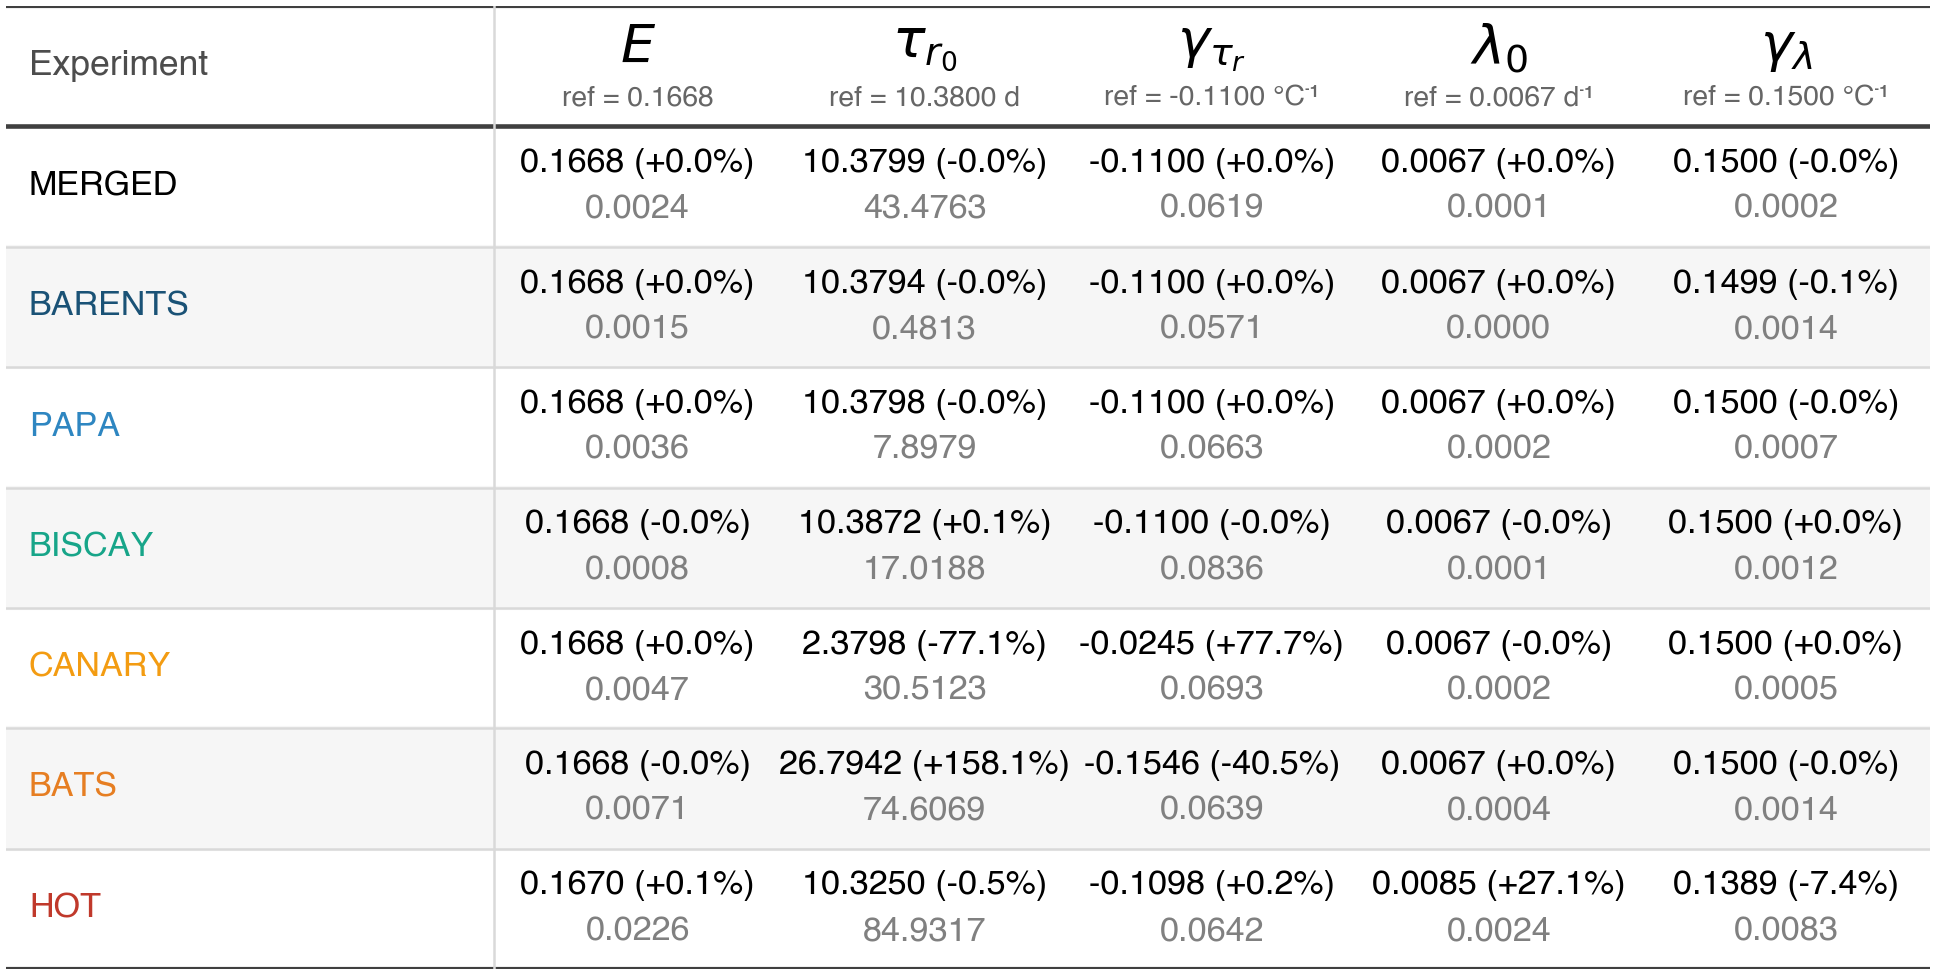
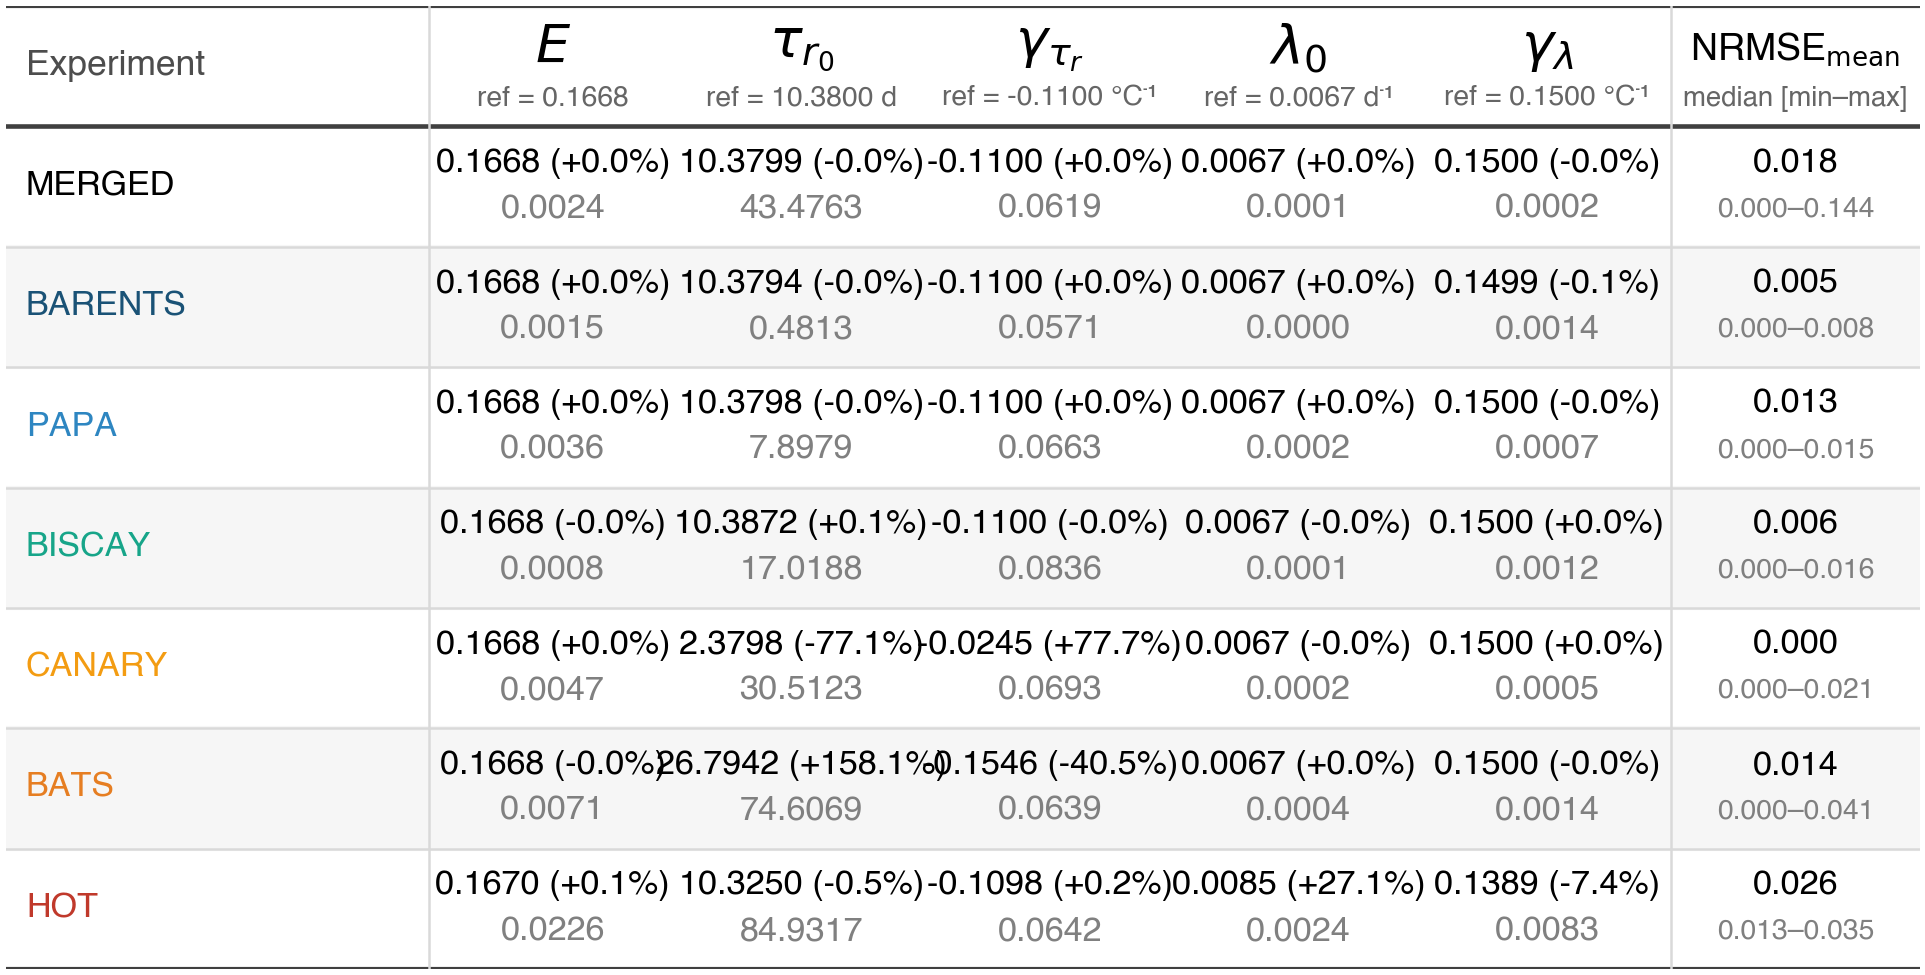
Recovery table without shading, Figure 8 rebuild, framework CMAES validation
The recovery-table builder no longer shades cells red. The shading pre-judged
which cells were failures and, at HOT, coloured individual cells although HOT
is excluded from the recovery analysis for not converging. The equifinal
cells now read from the numbers alone, a large error next to a near-zero
cost, so the table stays neutral. The numbers are unchanged.

Figure 8, the recovery heatmap that is this table's visual counterpart, is
regenerated from the same frozen product.

A new validation script runs the first-class seapopym_optimization CMAES on
one real station and seed, confirming it recovers a station end-to-end as the
inline pycma loop does.

uv.lock picks up the cma dependency already declared by seapopym-optimization.

diff --git a/scripts/tables/build_recovery_table.py b/scripts/tables/build_recovery_table.py
@@ -2,12 +2,10 @@ r"""Table — twin-experiment parameter recovery (LaTeX), generated from the fro
 
 Best-of-20 signed relative error (%) of each recovered parameter against its synthetic-observation
 reference, per experiment (MERGED + six stations), plus the achieved cost (mean-normalised NRMSE).
-Each cell is shaded red with an intensity that grows with |error|, so the equifinal cells (warm-station
-recruitment, HOT mortality) stand out while the recovered cells stay white. This is the typeset-table
-counterpart of Figure 8's recovery heatmap, reusing the exact same product and reference values
-(figstyle.REF / PLABEL / order / label) so the numbers match the figure.
-
-The shaded cells use \cellcolor, so the manuscript preamble needs \usepackage[table]{xcolor}.
+The equifinal cells (a large error next to a near-zero cost) are read from the numbers alone, with no
+cell shading, so the table stays neutral and does not pre-judge which cells are failures. This is the
+typeset-table counterpart of Figure 8's recovery heatmap, reusing the exact same product and reference
+values (figstyle.REF / PLABEL / order / label) so the numbers match the figure.
 
 Emits the tabular ONLY, so it can be \input inside a table* float whose \caption is written in the
 manuscript (the numbers regenerate here, the wording stays under the author's control). A ready-made
@@ -35,11 +33,6 @@ EXP = fs.order(set(d.experiment))                                        # MERGE
 best = d.loc[d.groupby("experiment").best_nrmse.idxmin().values].set_index("experiment")   # best seed / experiment
 nrmse_min = d.groupby("experiment").best_nrmse.min()                     # achieved cost of that best restart
 
-# Discrete red shading vs |relative error| (%), mirroring Figure 8's colour bounds, capped at red!50
-# so the black cell text stays readable. Recovered cells (|error| < 1 %) get no shading.
-SHADE = [(1, 0), (10, 12), (25, 25), (50, 38)]
-
-
 def relerr(value, p: str) -> float:
     return (float(value) - fs.REF[p]) / abs(fs.REF[p]) * 100.0
 
@@ -50,18 +43,8 @@ def fmt_err(e: float) -> str:
     return f"{e:+.0f}" if abs(e) >= 10 else f"{e:+.1f}"
 
 
-def shade_level(abserr: float) -> int:
-    for thr, lvl in SHADE:
-        if abserr < thr:
-            return lvl
-    return 50
-
-
 def cell(value, p: str) -> str:
-    e = relerr(value, p)
-    txt = f"${fmt_err(e)}$"
-    lvl = shade_level(abs(e))
-    return txt if lvl == 0 else rf"\cellcolor{{red!{lvl}}}{txt}"
+    return f"${fmt_err(relerr(value, p))}$"
 
 
 def sci(v: float) -> str:
@@ -74,7 +57,6 @@ def sci(v: float) -> str:
 lines = [
     r"% Auto-generated by scripts/tables/build_recovery_table.py from the frozen seed-ensemble CSV.",
     r"% Do not edit by hand. \input this inside a table* float and write the \caption in the manuscript.",
-    r"% Coloured cells need \usepackage{colortbl} (or \PassOptionsToPackage{table}{xcolor} before \documentclass).",
     r"\begin{tabular}{@{}l rrrrr r@{}}",
     r"\toprule",
     r"Synthetic observation & " + " & ".join(fs.PLABEL[p] for p in fs.PARAM_ORDER) + r" & NRMSE$_\mathrm{mean}$\\",
@@ -97,7 +79,7 @@ CAPTION = (
     r"Parameter recovery in the twin experiments, from the best of twenty CMA-ES restarts. Each entry "
     r"is the signed relative error of a recovered parameter against its synthetic-observation reference, "
     r"in percent, $(\hat{\theta}-\theta)/|\theta|\times100$. The last column is the achieved cost "
-    r"(mean-normalised NRMSE). Cell shading grows with the absolute error. The cold stations and MERGED "
+    r"(mean-normalised NRMSE). The cold stations and MERGED "
     r"recover all five parameters, CANARY and BATS miss the two recruitment parameters, and HOT does not "
     r"reach the optimum. A large error next to a near-zero cost is equifinality."
 )

diff --git a/scripts/experiments/validate_cmaes_framework_station.py b/scripts/experiments/validate_cmaes_framework_station.py
@@ -1,0 +1,76 @@
+"""Validation: run the framework CMAES on ONE real station / ONE seed.
+
+Mirrors run_cmaes_seed_ensemble.run_experiment (same forcing, pseudo-observations, functional groups,
+cost function, Dask evaluation) but drives the search through the new framework optimizer
+seapopym_optimization.algorithm.CMAES instead of the inline pycma loop. Confirms that the first-class
+CMAES recovers a clean station end-to-end on real SeapoPym data, producing a valid Logbook.
+
+Run: .venv/bin/python scripts/experiments/validate_cmaes_framework_station.py [STATION] [SEED]
+"""
+from __future__ import annotations
+
+import json
+import sys
+
+import yaml
+from dask.distributed import Client
+
+from seapopym.configuration.no_transport import KernelParameter
+from seapopym.model.no_transport_model import NoTransportSpaceOptimizedLightModel
+from seapopym_optimization.algorithm import CMAES, CMAESParameters
+from seapopym_optimization.algorithm.genetic_algorithm.evaluation_strategies import DistributedEvaluation
+from seapopym_optimization.configuration_generator import NoTransportConfigurationGenerator
+from seapopym_optimization.cost_function import CostFunction, TimeSeriesScoreProcessor
+from seapopym_optimization.functional_group import FunctionalGroupSet
+
+from seapopym_repro import experiment as ga, paths
+from seapopym_repro.metrics import COMPARATORS
+
+STATION = sys.argv[1] if len(sys.argv) > 1 else "BARENTS"
+SEED = int(sys.argv[2]) if len(sys.argv) > 2 else 0
+METRIC = paths.PRODUCTION_METRIC
+NGEN = 1000
+
+
+def main() -> None:
+    params = yaml.safe_load(open(ga.ROOT / "parameters.yaml"))
+    ref = params["model_parameters"]["reference"]
+    stations_meta = json.load(open(ga.DATA_DIR / "stations_coords.json"))
+    forcing = ga.build_forcing()
+    observations = ga.build_observations(STATION, stations_meta)
+    fg_set = FunctionalGroupSet(ga.functional_groups(params["model_parameters"]["bounds"]))
+    cost = CostFunction(
+        configuration_generator=NoTransportConfigurationGenerator(model_class=NoTransportSpaceOptimizedLightModel),
+        functional_groups=fg_set,
+        forcing=forcing,
+        kernel=KernelParameter(biomass_solver="implicit"),
+        observations=observations,
+        processor=TimeSeriesScoreProcessor(comparator=COMPARATORS[METRIC]),
+    )
+
+    client = Client(n_workers=8, threads_per_worker=1, memory_limit="4GB")
+    try:
+        cost.forcing = client.scatter(cost.forcing, broadcast=True)              # broadcast read-only data once
+        for name in list(cost.observations):
+            cost.observations[name] = client.scatter(cost.observations[name], broadcast=True)
+        evalstrat = DistributedEvaluation(cost, client)
+        print(f"station={STATION} seed={SEED} metric={METRIC} n_obs={len(cost.observations)}", flush=True)
+
+        cmaes = CMAES(CMAESParameters(NGEN=NGEN, SEED=SEED), cost, evalstrat)     # the framework optimizer
+        logbook = cmaes.optimize()
+    finally:
+        client.close()
+
+    wf = ("Weighted_fitness", "Weighted_fitness")
+    best_cost = float(-logbook[wf].max())
+    best = logbook.loc[logbook[wf].idxmax(), "Parametre"].to_dict()
+    generations = int(logbook.index.get_level_values("Generation").max()) + 1
+    print(f"\nbest {METRIC} = {best_cost:.5f}  |  generations = {generations}  |  logbook rows = {len(logbook)}")
+    print("recovered parameter        value      (reference,   rel.err)")
+    for key in ga.PARAM_KEYS:
+        value, reference = float(best[key]), float(ref[key])
+        print(f"  {key:26s} {value:10.4f}  (ref {reference:9.4f}, {(value - reference) / abs(reference) * 100:+6.1f}%)")
+
+
+if __name__ == "__main__":
+    main()

diff --git a/products/recovery_table.tex b/products/recovery_table.tex
@@ -1,6 +1,5 @@
 % Auto-generated by scripts/tables/build_recovery_table.py from the frozen seed-ensemble CSV.
 % Do not edit by hand. \input this inside a table* float and write the \caption in the manuscript.
-% Coloured cells need \usepackage{colortbl} (or \PassOptionsToPackage{table}{xcolor} before \documentclass).
 \begin{tabular}{@{}l rrrrr r@{}}
 \toprule
 Synthetic observation & $E$ & $\tau_{r_0}$ & $\gamma_{\tau_r}$ & $\lambda_0$ & $\gamma_\lambda$ & NRMSE$_\mathrm{mean}$\\
@@ -10,8 +9,8 @@ MERGED & $0$ & $0$ & $0$ & $0$ & $0$ & $1.1\times10^{-4}$\\
 BARENTS & $0$ & $0$ & $0$ & $0$ & $0$ & $4.9\times10^{-6}$\\
 PAPA & $0$ & $0$ & $0$ & $0$ & $0$ & $3.5\times10^{-5}$\\
 BISCAY & $0$ & $+0.1$ & $0$ & $0$ & $0$ & $1.4\times10^{-5}$\\
-CANARY & $0$ & \cellcolor{red!50}$-77$ & \cellcolor{red!50}$+78$ & $0$ & $0$ & $1.9\times10^{-8}$\\
-BATS & $0$ & \cellcolor{red!50}$+158$ & \cellcolor{red!38}$-41$ & $0$ & $0$ & $1.7\times10^{-6}$\\
-HOT & $+0.1$ & $-0.5$ & $+0.2$ & \cellcolor{red!38}$+27$ & \cellcolor{red!12}$-7.4$ & $1.3\times10^{-2}$\\
+CANARY & $0$ & $-77$ & $+78$ & $0$ & $0$ & $1.9\times10^{-8}$\\
+BATS & $0$ & $+158$ & $-41$ & $0$ & $0$ & $1.7\times10^{-6}$\\
+HOT & $+0.1$ & $-0.5$ & $+0.2$ & $+27$ & $-7.4$ & $1.3\times10^{-2}$\\
 \bottomrule
 \end{tabular}
